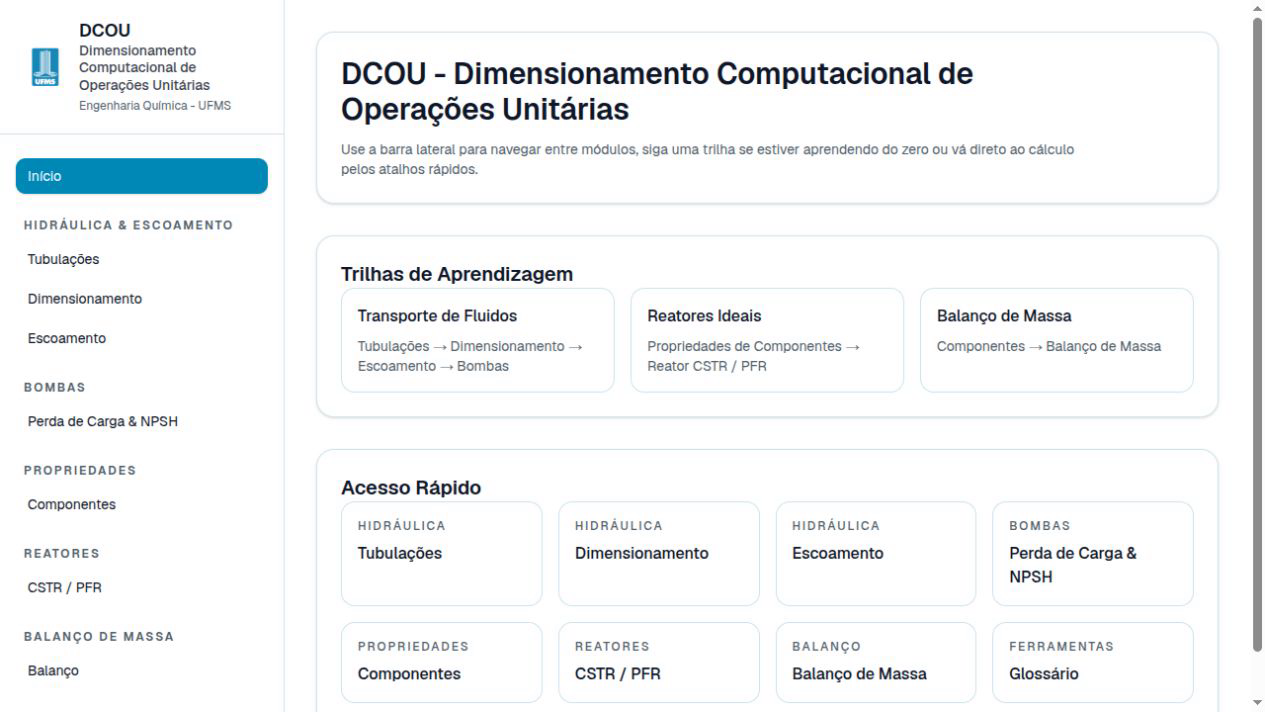
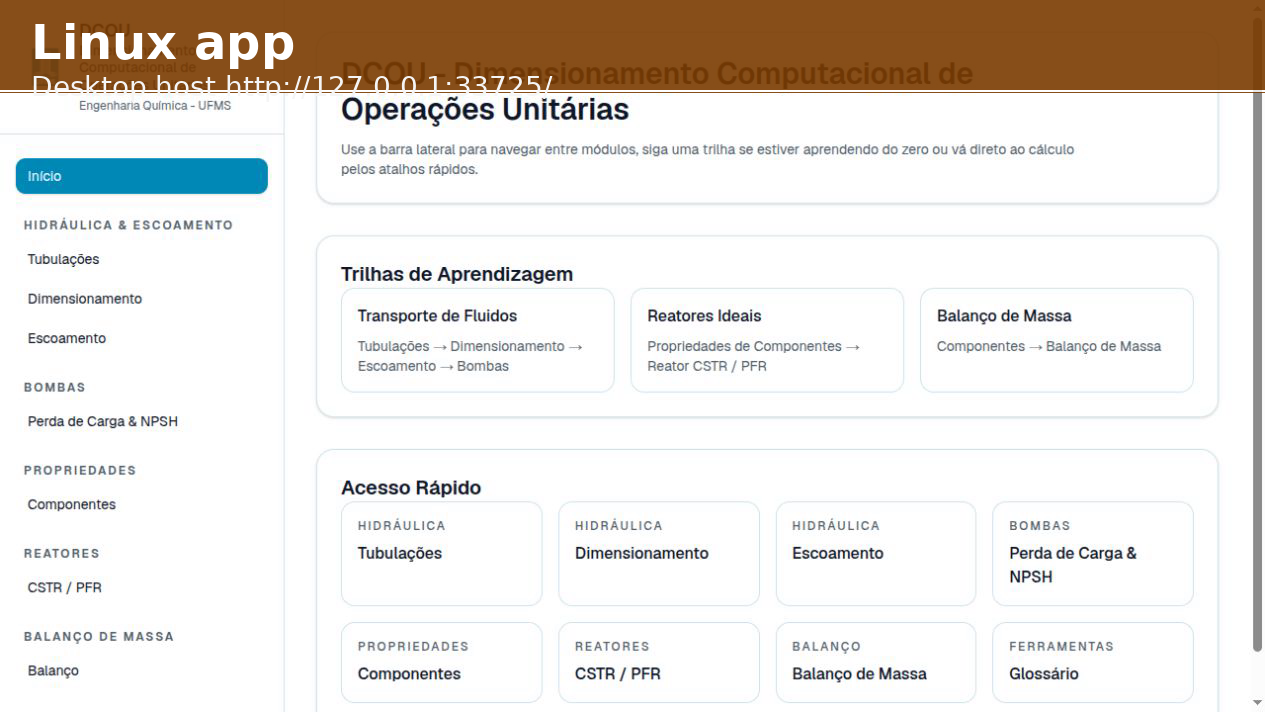
fix(slides): annotate demo runtime captures
- add per-target banners to the three runtime screenshots so each slide image is truthful
- clarify the backend health-check step to reuse the selected backend port when 5000 is unavailable
- keep the follow-up limited to the existing runbook and screenshot assets

Changed region(s): [[0.0, 0.0, 1.0, 0.1545]]

diff --git a/slides/notes/demo-runbook.md b/slides/notes/demo-runbook.md
@@ -7,7 +7,7 @@
 
 ## Runtime proof
 4. Show the local frontend at `http://localhost:5173`.
-5. Mention the backend health route at `http://localhost:5000/health`.
+5. Mention the backend health route at `http://localhost:5000/health`, or the same `/health` path on the selected backend port if `5000` is occupied.
 6. Show the Linux app only as a bonus if time remains.
 
 ## Fallback visuals already available in the repo
